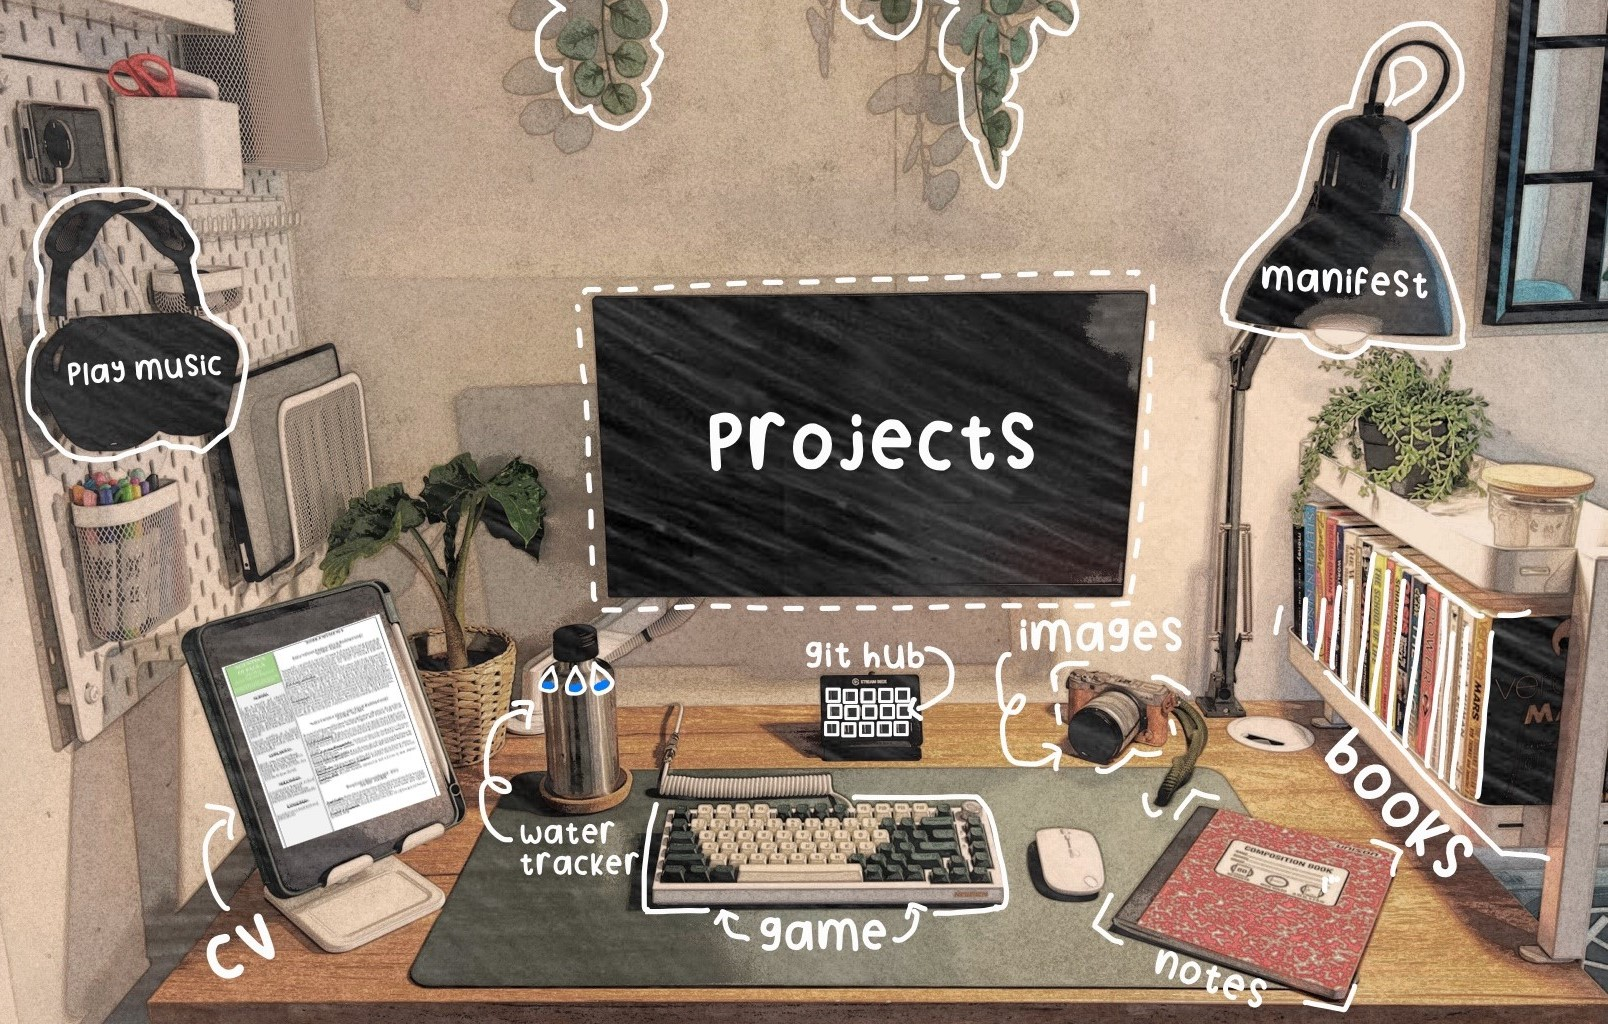
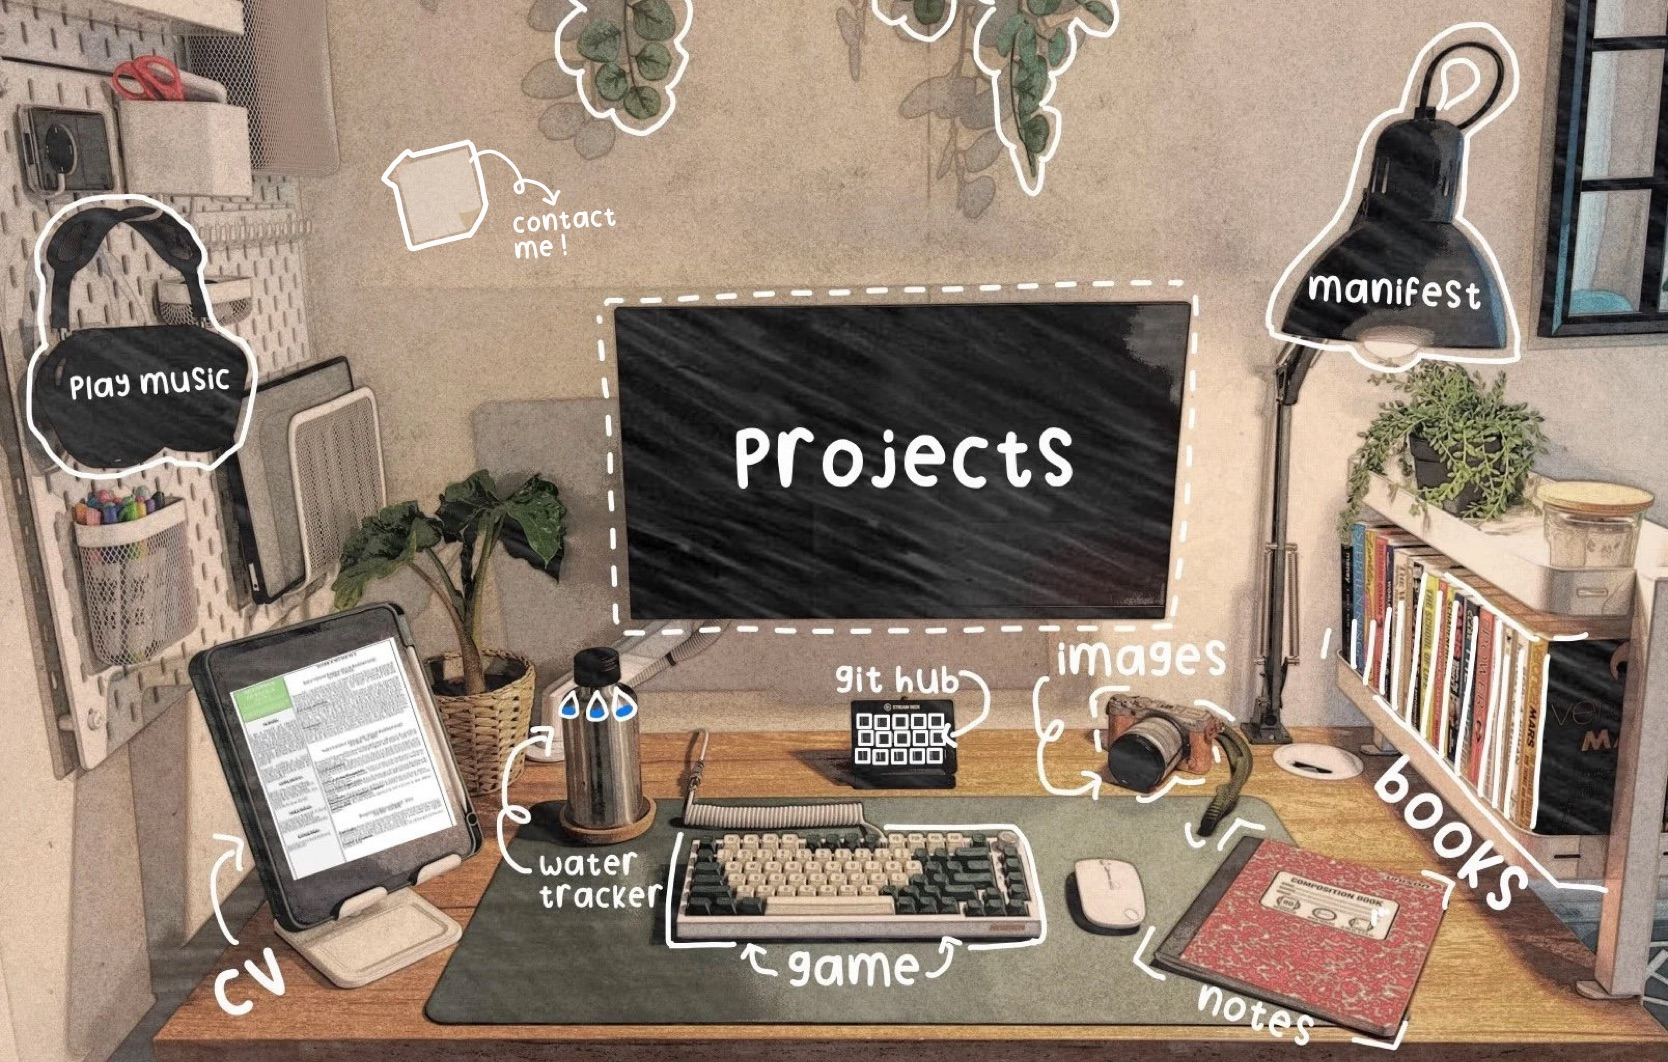
background update

diff --git a/src/App.js b/src/App.js
@@ -6,9 +6,10 @@ import PlayMusic from "./components/PlayMusic";
 import Water from "./components/Water";
 import Images from "./components/Images";
 import Notes from "./components/Notes";
-import Manifest from "./components/Manifest";
+import Manifest from "./components/manifest/Manifest";
 import Game from "./components/Game";
 import Books from "./components/Books";
+import ContactMe from "./components/ContactMe";
 import { Route, BrowserRouter as Router, Routes, Link } from "react-router-dom";
 
 import "bootstrap/dist/css/bootstrap.min.css";
@@ -209,6 +210,23 @@ function App() {
           >manifest
           </Button>
         </Link>
+        <Link to="/contacme">
+          <Button
+            variant="light"
+            style={{
+              position: "absolute",
+              bottom: "400px", // Adjust as needed
+              right: "890px", // Adjust as needed
+            padding: "10px",
+
+
+              backgroundColor: "#ffffff00",
+              color: "#ffffff00",
+              borderColor: "#ffffff00",
+            }}
+          >contactme
+          </Button>
+        </Link>
 
         <Routes>
           <Route element={<Home />} path="/" />
@@ -221,6 +239,7 @@ function App() {
           <Route element={<Manifest />} path="/manifest" />
           <Route element={<Images />} path="/images" />
           <Route element={<Books />} path="/books" />
+          <Route element={<ContactMe />} path="/contactme" />
         </Routes>
       </Router>
     </header>

diff --git a/src/components/projects/Projects.jsx b/src/components/projects/Projects.jsx
@@ -30,7 +30,7 @@ function Projects() {
     <>
      
 {/* for font style porpuses, I use  &lt; and &gt; that represent >< */}
-<h1 style={{fontFamily: "jhal", textAlign: "center"}}>&lt; Projects &gt;</h1>
+<h1 style={{fontFamily: "handwritting", textAlign: "center", fontSize:"80px"}}>projects</h1>
       {" "}
       <div style={{ display: 'flex', flexWrap: 'wrap'}}>        <Card
           className="col-sm-6 col-md-6 col-lg-6"
@@ -112,7 +112,7 @@ function Projects() {
       
         <Card
           className="col-sm-6 col-md-6 col-lg-6"
-          style={{ textAlign: "center" }}
+          style={{ textAlign: "center"}}
         >
           <Card.Text>
             The primary objective of this software coding project was to

diff --git a/src/App.css b/src/App.css
@@ -38,11 +38,12 @@
 }
 
 @font-face {
-  font-family: jhal;
-  src: url(../src/fonts/Jhal\ Muri.ttf);
+  font-family: handwritting;
+  src: url(../src/fonts/Liohandwritting.otf);
 }
 
 .roboto {
-  font-family: jhal;
+  font-family: handwritting;
 }
+
 

diff --git a/src/components/manifest/Manifest.jsx b/src/components/manifest/Manifest.jsx
@@ -1,0 +1,10 @@
+
+function Manifest() {
+ 
+
+  return (
+    <h1>Manifest</h1>
+  );
+}
+
+export default Manifest;
